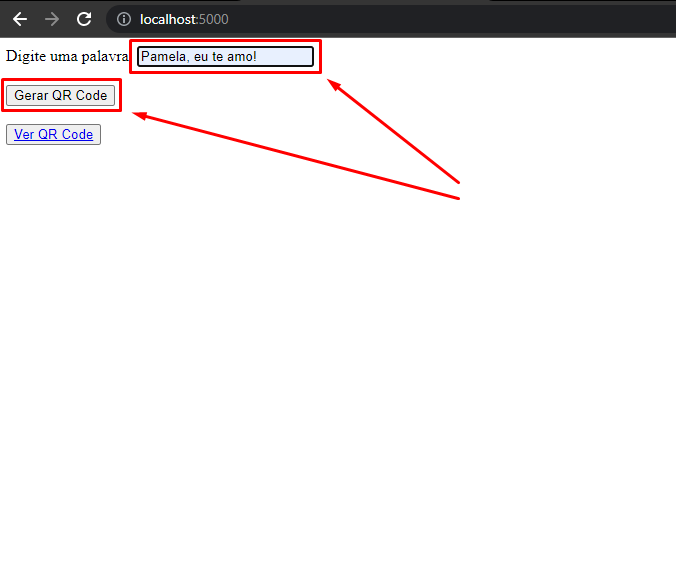
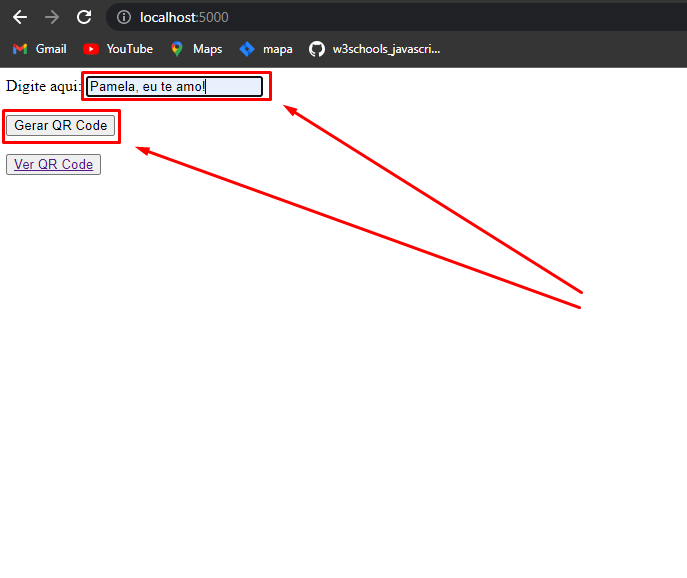
ajustes

diff --git a/templates/index.html b/templates/index.html
@@ -9,8 +9,8 @@
 <body>
 
     <form action = "{{ url_for('gera_qrcode') }}" method = "POST">
-        <label for="">Digite uma palavra: </label>
-        <input type="text" name="id_palavra" id="id_palavra"><br><br>
+        <label for="">Digite aqui: </label>
+        <input type="text" placeholder="palavra, frase, link..." name="id_palavra" id="id_palavra"><br><br>
         <input type="submit" name="retorno" value="Gerar QR Code">
     </form><br>
 

diff --git a/README.md b/README.md
@@ -14,7 +14,7 @@
 
 ## Imagens da Aplicação
 
-### Passo 1: digitar uma(s) palavra(s), link, etc. e pressionar o botão "Gerar QR Code"
+### Passo 1: digitar palavra, frase, link, etc. e pressionar o botão "Gerar QR Code"
 
 ![alt text](https://github.com/lucianonevesln/python_qrcode/blob/main/static/img0.png)
 
@@ -22,6 +22,6 @@
 
 ![alt text](https://github.com/lucianonevesln/python_qrcode/blob/main/static/img1.png)
 
-### Passo 3: aponte a câmera de seu celular para a imagem
+### Passo 3: aponte a câmera de seu celular para a imagem gerada
 
 ![alt text](https://github.com/lucianonevesln/python_qrcode/blob/main/static/img2.png)
